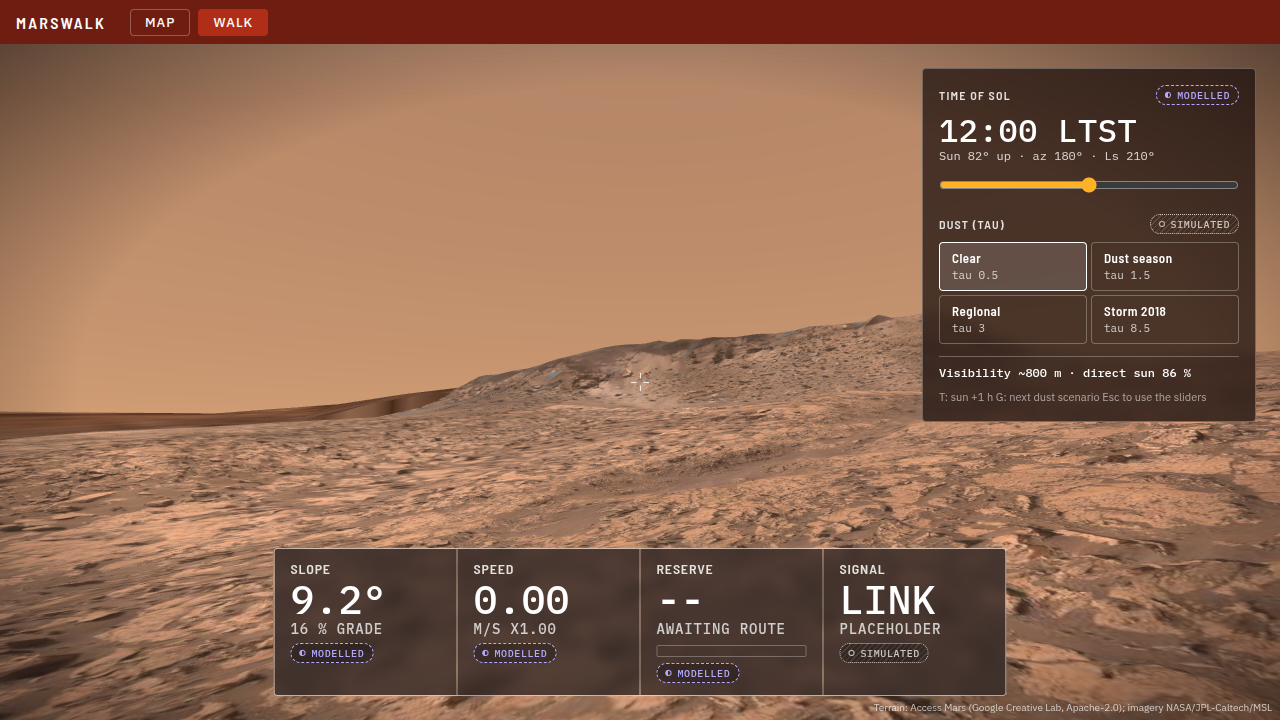
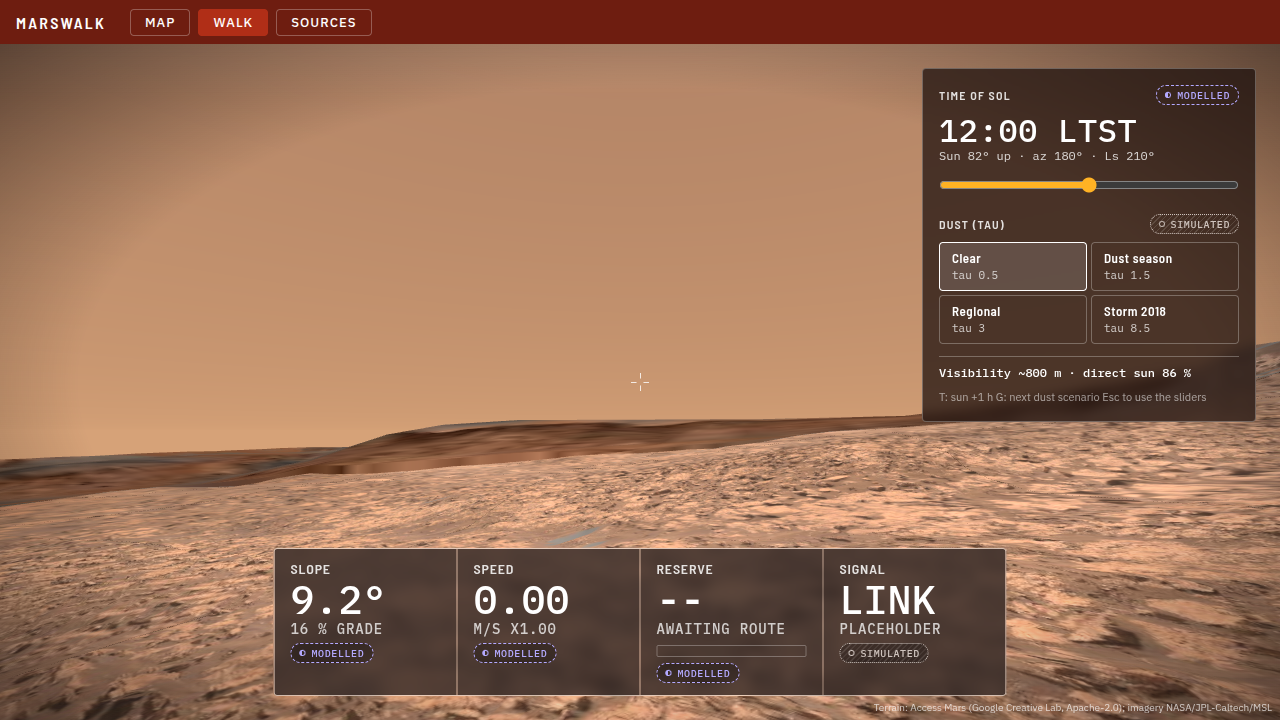
designer: task 008b sun heading fix and storm haze

Changed region(s): [[0.0, 0.4278, 1.0, 1.0], [0.2188, 0.0, 0.2812, 0.0611]]

diff --git a/app/src/walk/sky.js b/app/src/walk/sky.js
@@ -1,9 +1,9 @@
 // Sky, sun light, shadows, fog and the day/dust controls for Walk (docs/design.md moments 3 and 4).
 // Sun direction: Mars24 (src/model/mars24.js) for Murray Buttes on sol 1440 -> MODELLED.
-// Dust: tau presets drive fog / light / sky -> SIMULATED. Scene axes assumption: -Z = north, +X = east
-// (glb orientation is undocumented; shadows are right in relative terms, absolute heading is approximate).
+// Dust: tau presets drive fog / light / sky -> SIMULATED. Scene axes: +X east, +Z north, 2.4 deg rotation
+// (task 002 NCC fit: scene +x = east, +z = NORTH, rotated 2.4 deg; see sunSceneDir in model/mars24.js).
 import * as THREE from 'three';
-import { sunAtLtst } from '../model/mars24.js';
+import { sunAtLtst, sunSceneDir } from '../model/mars24.js';
 import { chip } from '../ui/components.js';
 import '../styles/sky.css';
 
@@ -58,7 +58,7 @@ export function initSky({ scene, sun, hemi, container, state }) {
     new THREE.ShaderMaterial({ uniforms: u, vertexShader: VERT, fragmentShader: FRAG, side: THREE.BackSide, depthWrite: false, fog: false }));
   dome.frustumCulled = false; dome.renderOrder = -10; scene.add(dome);
   scene.background = null;
-  scene.fog = new THREE.FogExp2(0xd9a57a, 0.0025);
+  scene.fog = new THREE.Fog(0xd9a57a, 60, 1600);
   hemi.groundColor.set(0x6b3a22);
 
   const st = { hour: 9, dustIdx: 0, sun: null, bgMats: null };
@@ -66,8 +66,8 @@ export function initSky({ scene, sun, hemi, container, state }) {
 
   function compute() {
     const s = sunAtLtst(st.hour), tau = DUST[st.dustIdx].tau;
-    const el = s.elevation, az = s.azimuth * Math.PI / 180, e = el * Math.PI / 180;
-    dir.set(Math.sin(az) * Math.cos(e), Math.sin(e), -Math.cos(az) * Math.cos(e)); // -Z north, +X east
+    const el = s.elevation, e = el * Math.PI / 180;
+    const sv = sunSceneDir(s.azimuth, el); dir.set(sv[0], sv[1], sv[2]);
     const dayK = sstep(-4, 12, el), twi = sstep(-9, -1, el) * (1 - sstep(4, 18, el)), night = 1 - sstep(-9, -2, el);
     const dustK = 1 - Math.exp(-tau / 3.2);                       // 0 clear .. ~.93 storm
     const sinEl = Math.max(Math.sin(e), 0.12);
@@ -78,16 +78,18 @@ export function initSky({ scene, sun, hemi, container, state }) {
     tmp.copy(PAL.zenithDusk).lerp(PAL.zenithDay, dayK); u.cZen.value.copy(tmp).lerp(PAL.night, night * 0.95);
     u.sunDir.value.copy(dir); u.day.value = dayK; u.twi.value = twi; u.night.value = night; u.dust.value = dustK; u.sunI.value = direct;
     // fog follows the horizon colour, density from visibility (FogExp2: ~2% contrast at 2/density)
-    fogCol.copy(u.cHor.value).lerp(PAL.dust.clone().multiplyScalar(0.25 + 0.75 * dayK), dustK * 0.8);
-    scene.fog.color.copy(fogCol); scene.fog.density = 1.98 / st.sun.vis;
+    fogCol.copy(u.cHor.value).lerp(PAL.dust.clone().multiplyScalar(0.45 + 0.55 * dayK), dustK * 0.9);
+    scene.fog.color.copy(fogCol); // linear fog so short range is hazed too: near 60 m (clear) -> 1 m (storm), far = (2 - 1.5 dustK) x visibility
+    scene.fog.near = 60 * Math.pow(1 / 60, dustK); scene.fog.far = st.sun.vis * (2 - 1.5 * dustK);
     // lights
     sun.color.setRGB(1, 0.93 - 0.18 * (1 - sstep(0, 25, el)), 0.84 - 0.34 * (1 - sstep(0, 25, el)));
-    sun.intensity = 3.2 * direct; sun.castShadow = direct > 0.02;
-    hemi.intensity = 0.06 + 0.9 * dayK * (1 - 0.35 * dustK) + 0.25 * twi;
+    sun.intensity = 4.2 * direct; sun.castShadow = direct > 0.02;
+    hemi.intensity = 0.06 + 1.3 * dayK * (1 - 0.35 * dustK) + 0.25 * twi;
     hemi.color.copy(u.cHor.value).lerp(new THREE.Color(0xffffff), 0.3);
     // mute the backdrop photo with the light level and haze
     if (!st.bgMats) { st.bgMats = []; scene.traverse((o) => { if (o.isMesh && o.material && o.material.isMeshBasicMaterial && o.material.fog === false) st.bgMats.push(o.material); }); }
-    for (const m of st.bgMats) m.color.setRGB(1, 0.84, 0.7).multiplyScalar(0.06 + 0.94 * dayK * (1 - 0.6 * dustK)).lerp(fogCol, Math.min(1, dustK * 1.05));
+    for (const m of st.bgMats) m.color.setRGB(1, 0.84, 0.7).multiplyScalar(0.06 + 0.94 * dayK * (1 - 0.6 * dustK));
+    for (const m of st.bgMats) { m.transparent = true; m.opacity = 1 - 0.95 * dustK; } // backdrop photo dissolves into the dust sky
     ui.sync();
   }
 
@@ -104,6 +106,7 @@ export function initSky({ scene, sun, hemi, container, state }) {
     const btns = DUST.map((d, i) => { const b = mk('button', 'sky-opt'); b.append(mk('b', null, d.label), mk('span', null, 'tau ' + d.tau)); b.title = d.note; b.addEventListener('click', () => { st.dustIdx = i; compute(); }); seg.append(b); return b; });
     const vis = mk('div', 'sky-vis'), hint = mk('div', 'sky-hint', 'T: sun +1 h   G: next dust scenario   Esc to use the sliders');
     root.append(h1, time, sub, range, h2, seg, vis, hint);
+    const dustWarn = mk('div', 'sky-dustwarn'); dustWarn.hidden = true; container.append(dustWarn);
     container.append(root);
     for (const ev of ['keydown', 'keyup', 'mousedown']) root.addEventListener(ev, (e) => e.stopPropagation());
     const fmt = (h) => { const m = Math.round(h * 60) % 1440; return String(Math.floor(m / 60)).padStart(2, '0') + ':' + String(m % 60).padStart(2, '0'); };
@@ -112,6 +115,7 @@ export function initSky({ scene, sun, hemi, container, state }) {
       sub.textContent = (s.elevation >= 0 ? 'Sun ' + s.elevation.toFixed(0) + '° up' : 'Sun below horizon') + ' · az ' + s.azimuth.toFixed(0) + '° · Ls ' + s.Ls.toFixed(0) + '°';
       btns.forEach((b, i) => b.classList.toggle('on', i === st.dustIdx)); range.value = st.hour;
       vis.textContent = 'Visibility ~' + Math.round(s.vis) + ' m · direct sun ' + Math.round(s.direct * 100) + ' %';
+      dustWarn.hidden = s.tau < 8; dustWarn.textContent = '\u25a0 DUST: visibility ' + Math.round(s.vis) + ' m [SIMULATED]';
       vis.dataset.level = s.tau >= 8 ? 'danger' : s.tau >= 3 ? 'warn' : 'ok';
     } };
   })();

diff --git a/app/src/model/mars24.test.js b/app/src/model/mars24.test.js
@@ -17,3 +17,12 @@ test('Murray Buttes sol 1440: Ls ~210, noon high, dawn low, night below horizon'
   const n = sunAtLtst(12), r = sunAtLtst(6), s = sunAtLtst(18.5);
   near(n.Ls, 210, 1.5, 'Ls'); assert.ok(n.elevation > 70 && n.elevation < 85); near(r.elevation, 1, 2, 'dawn'); assert.ok(s.elevation < 0);
 });
+
+import { sunSceneDir } from './mars24.js';
+test('azimuth to scene vector: +x east, +z north, 2.4 deg rotation', () => {
+  const v = (az, el = 0) => sunSceneDir(az, el, 0);
+  const eq = (a, b) => a.forEach((x, i) => near(x, b[i], 1e-9, 'vec'));
+  eq(v(0), [0, 0, 1]); eq(v(90), [1, 0, 0]); eq(v(180), [0, 0, -1]); eq(v(270), [-1, 0, 0]); eq(v(0, 90), [0, 1, 0]);
+  const w = sunSceneDir(0, 0); near(w[0], -Math.sin(2.4 * Math.PI / 180), 1e-9, 'x'); near(w[2], Math.cos(2.4 * Math.PI / 180), 1e-9, 'z');
+  near(Math.hypot(...sunSceneDir(123, 33)), 1, 1e-9, 'unit');
+});

diff --git a/app/src/model/mars24.js b/app/src/model/mars24.js
@@ -38,3 +38,11 @@ export function sunAtLtst(hour, latDeg = MURRAY.latDeg, lonE = MURRAY.lonE, base
   for (let i = 0; i < 4; i++) { const s = sunAt(ms, latDeg, lonW); let d = hour - s.ltst; d = mod(d + 12, 24) - 12; ms += d / 24 * SOL_MS; }
   return { ms, ...sunAt(ms, latDeg, lonW) };
 }
+
+/** Sun direction (unit vector) in the walk scene frame. Scene: +x east, +y up, +z NORTH (mirrored), rotated
+ *  thetaDeg=2.4 (task 002 NCC fit): east = cos t x + sin t z, north = -sin t x + cos t z. Inverse used here. */
+export function sunSceneDir(azDeg, elDeg, thetaDeg = 2.4) {
+  const a = azDeg * R, e = elDeg * R, t = thetaDeg * R;
+  const E = Math.sin(a) * Math.cos(e), N = Math.cos(a) * Math.cos(e);
+  return [Math.cos(t) * E - Math.sin(t) * N, Math.sin(e), Math.sin(t) * E + Math.cos(t) * N];
+}

diff --git a/app/src/styles/sky.css b/app/src/styles/sky.css
@@ -21,3 +21,7 @@
 .sky-vis[data-level="danger"] { color: var(--danger); }
 .sky-hint { margin-top: var(--s-2); font-size: 11px; opacity: .55; }
 @media (max-width: 760px) { .sky-panel { width: 240px; top: var(--s-3); right: var(--s-3); } }
+.sky-dustwarn { position: absolute; top: calc(var(--s-5) + 52px); left: 50%; transform: translateX(-50%); z-index: 5; pointer-events: none;
+  height: 44px; display: flex; align-items: center; padding: 0 var(--s-5); background: var(--scrim); color: var(--warn);
+  border: 2px solid var(--warn); border-radius: var(--radius); font: 600 16px/1 var(--font-display); letter-spacing: .08em; text-transform: uppercase; }
+.sky-dustwarn[hidden] { display: none; }
